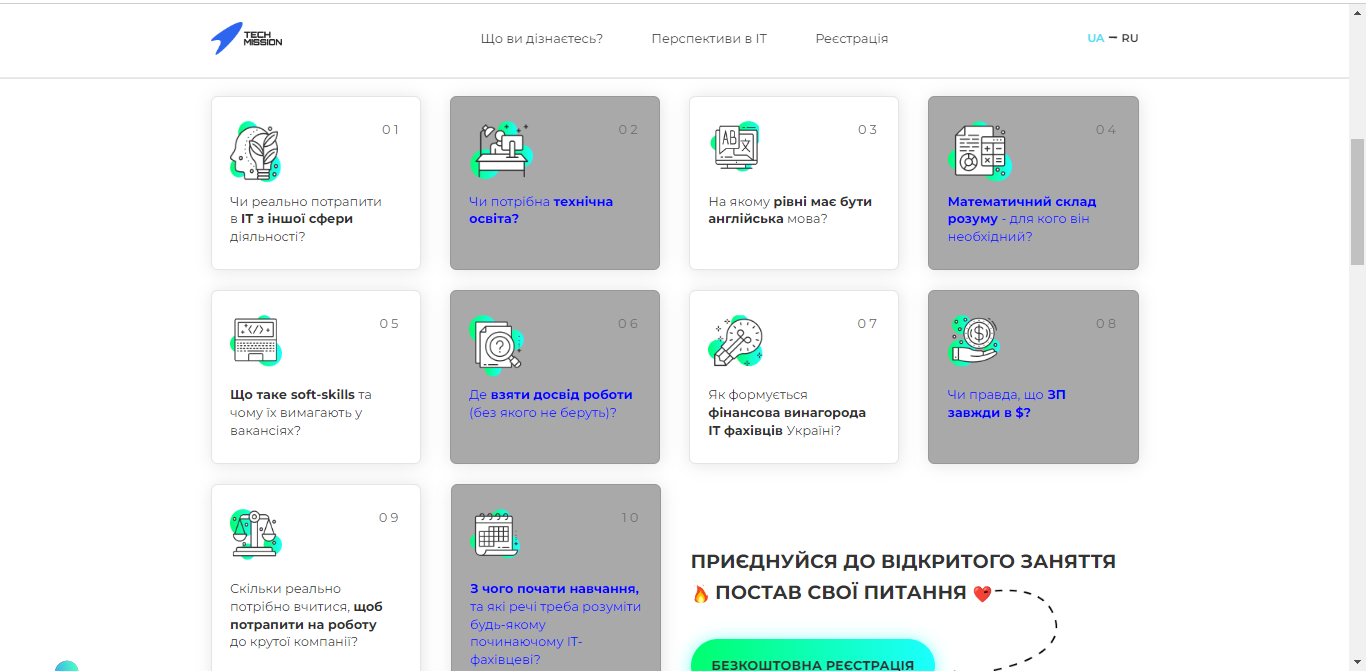
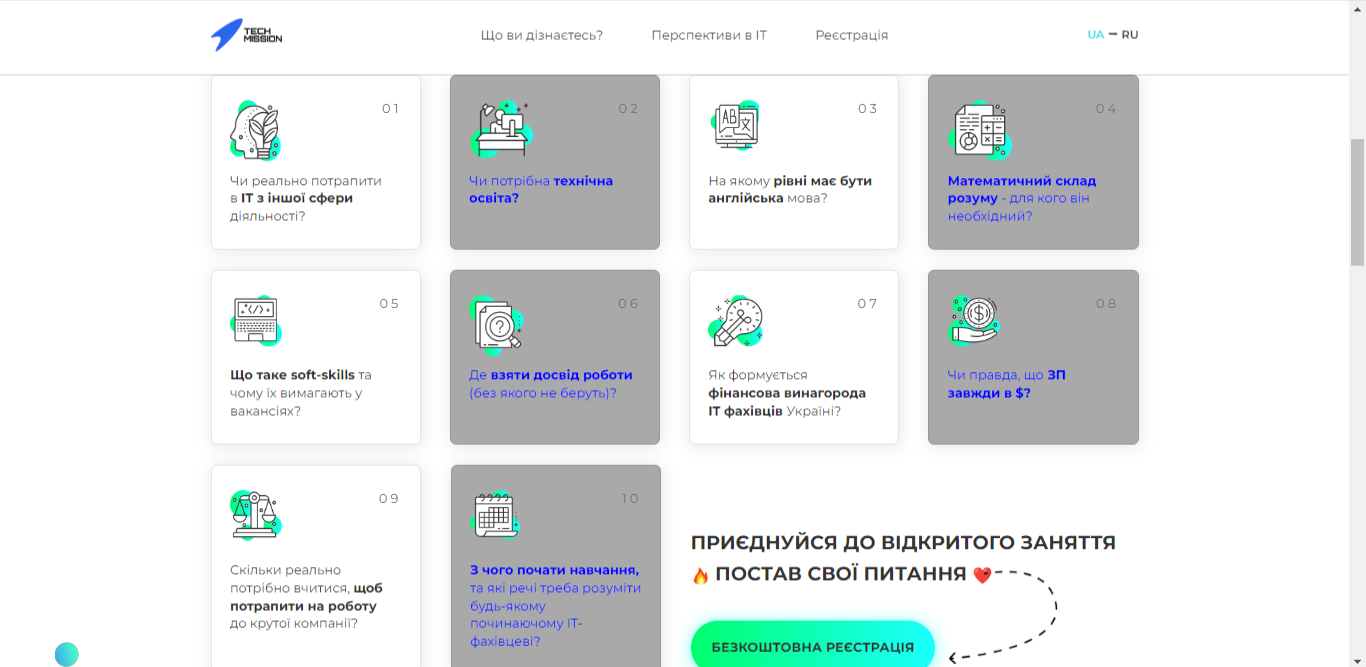
Added background-color and text color

diff --git a/qa.html b/qa.html
@@ -52,10 +52,10 @@
         background-color: darkgrey;
         color: blue;
     }
-    .div-block-6:nth-child(2n) .text-block-5{
-        background-color: darkgrey;
+    .div-block-6:nth-child(2n) .text-block-5 {
         color: blue;
     }
+
 </style>
 </head>
 <body style="padding-top: 93px;">
